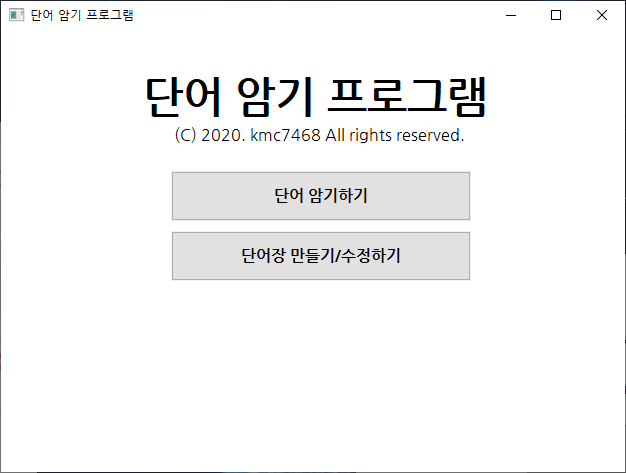
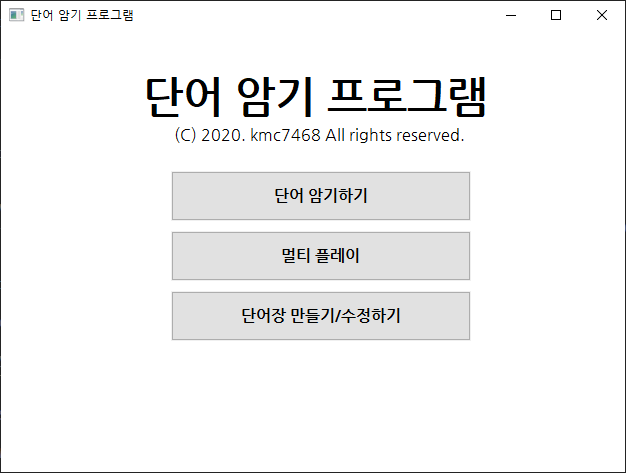
README.md 파일 업데이트

diff --git a/README.md b/README.md
@@ -1,11 +1,13 @@
 # WordReminder
 윈도우용 단어 암기 프로그램
 
-'나눔고딕' 폰트 설치를 추천합니다.
+[나눔고딕](https://hangeul.naver.com/2017/nanum) 폰트 설치를 추천합니다.
 
 ## 스크린샷
 - **메인 화면**<br>
-![MainWindow](https://github.com/kmc7468/WordReminder/blob/master/img/MainWindow.png)
+![MainWindow](https://github.com/kmc7468/WordReminder/blob/master/img/MainWindow.png)<br>
+![MainWindow_MultiplayClicked](https://github.com/kmc7468/WordReminder/blob/master/img/MainWindow_MultiplayClicked.png)<br>
+멀티 플레이 버튼을 누르면 5초간 서버 만들기 버튼과 서버 접속하기 버튼으로 나눠집니다.
 - **단어장 만들기/수정하기**<br>
 ![VocabularyWindow](https://github.com/kmc7468/WordReminder/blob/master/img/VocabularyWindow.png)<br>
 단어장을 새로 만들거나, 기존 단어장을 불러와 편집할 수 있습니다. 단어장에는 적어도 뜻이 다른 5개 이상의 단어가 등록되어야 저장할 수 있습니다. 동음이의어나 다의어는 아직 공식적으로 지원하지 않으므로, 뜻을 입력하는 칸에 여러 개의 뜻을 컴마 등으로 적절히 구분해 입력하시기 바랍니다. 발음은 꼭 입력하지 않아도 됩니다.
